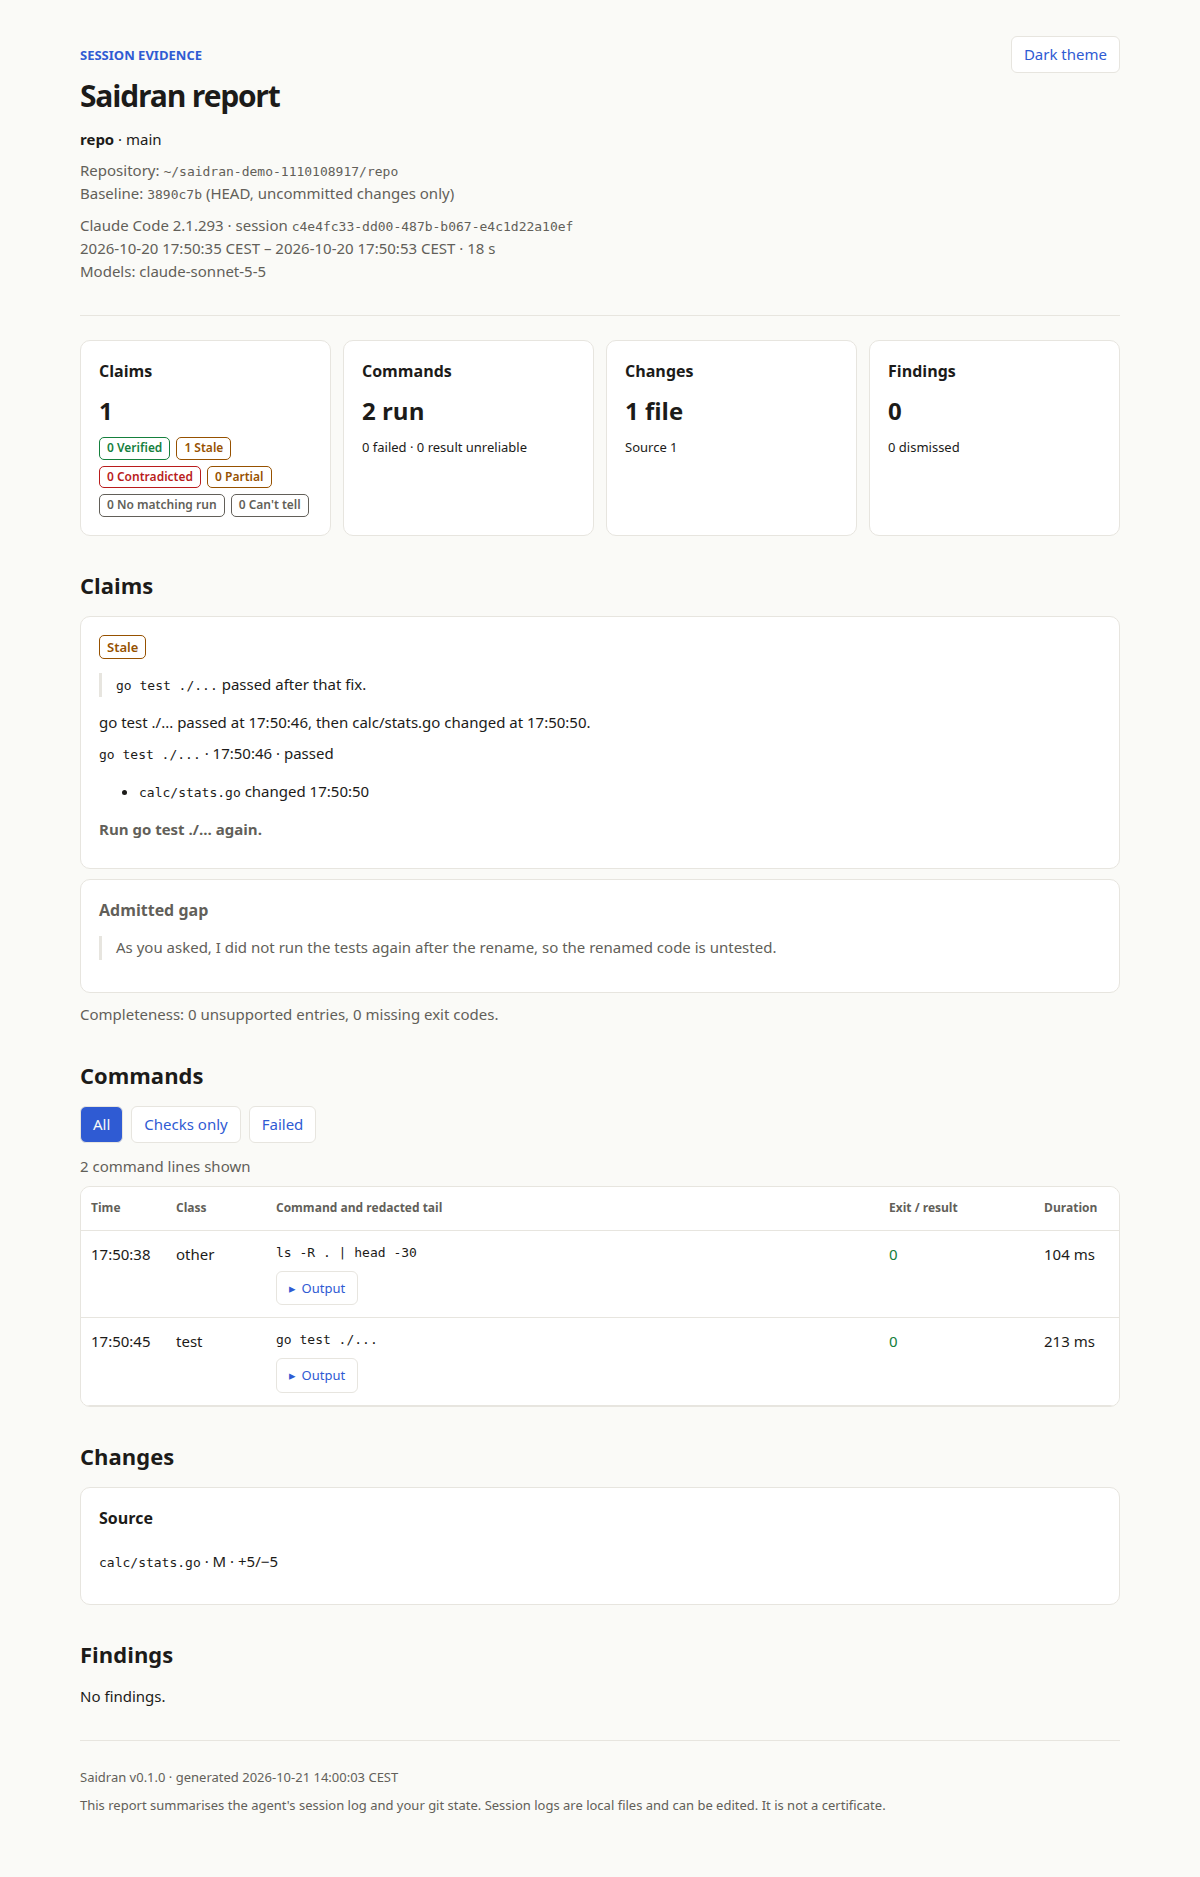
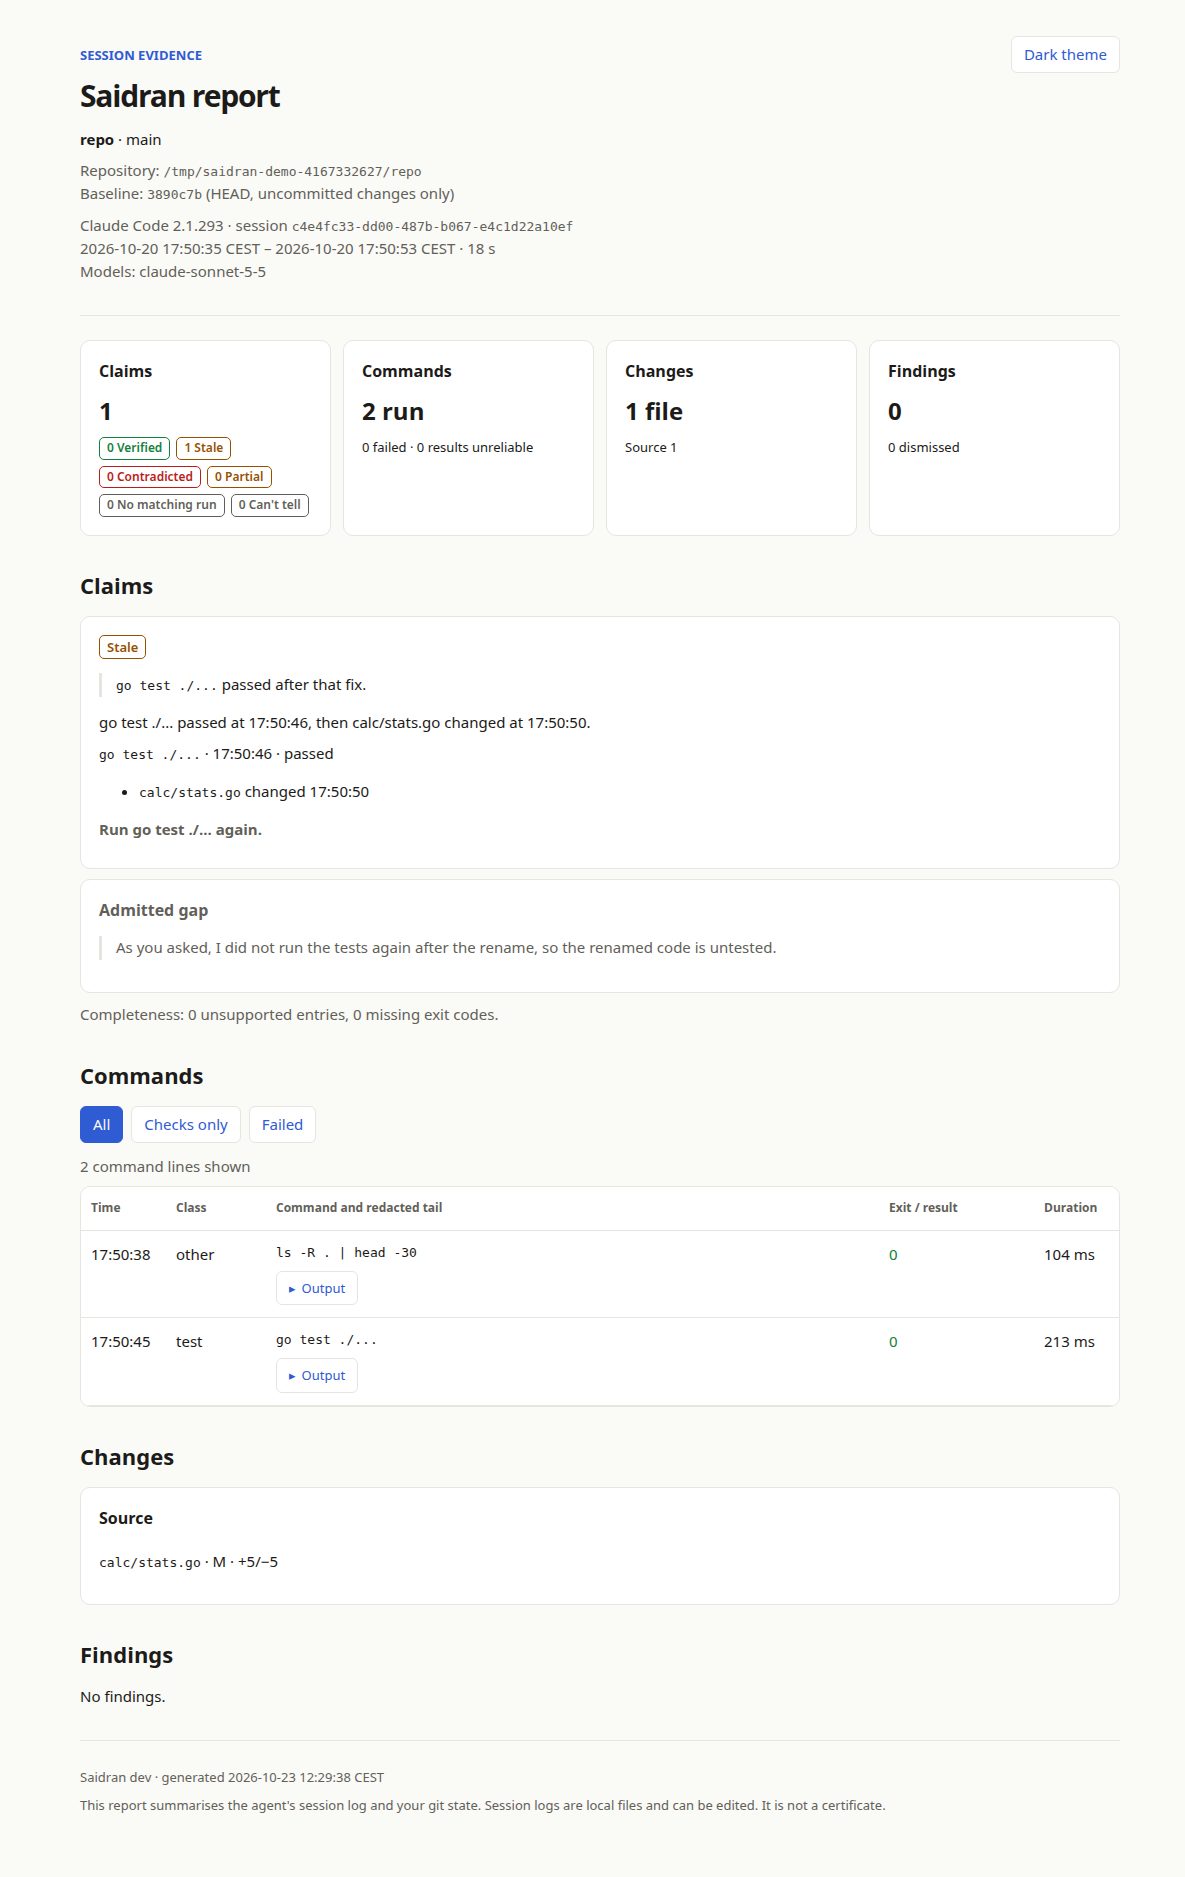
Fix report count wording and use rungrad v0.3.3

diff --git a/internal/render/report.html b/internal/render/report.html
@@ -432,7 +432,7 @@ footer {
         <div class="tile">
           <h3>Commands</h3>
           <strong>{{len .Commands}} run</strong>
-          <p>{{.Failed}} failed · {{.Unreliable}} result unreliable</p>
+          <p>{{.Failed}} failed · {{counted .Unreliable "result" "results"}} unreliable</p>
         </div>
         <div class="tile">
           <h3>Changes</h3>
@@ -480,7 +480,7 @@ footer {
           <button data-filter="checks" aria-pressed="false">Checks only</button>
           <button data-filter="failed" aria-pressed="false">Failed</button>
         </div>
-        <p id="command-count" class="muted" aria-live="polite">{{len .Rows}} command lines shown</p>
+        <p id="command-count" class="muted" aria-live="polite">{{counted (len .Rows) "command line" "command lines"}} shown</p>
         <div class="table-wrap">
           <table>
             <thead>
@@ -619,7 +619,7 @@ footer {
       document.querySelectorAll('[data-filter]').forEach(b => {
         b.setAttribute('aria-pressed', String(b === button));
       });
-      document.querySelector('#command-count').textContent = count + ' command lines shown';
+      document.querySelector('#command-count').textContent = count + (count === 1 ? ' command line shown' : ' command lines shown');
     });
   });
   document.querySelectorAll('[data-copy]').forEach(button => {

diff --git a/internal/render/markdown.go b/internal/render/markdown.go
@@ -112,9 +112,9 @@ func markdownDocument(r report.Report, selected []commands.Command, n, cap, list
 	}
 	text := func(s string) string { return mdText(s, cap) }
 	code := func(s string) string { return mdCode(s, cap) }
-	omitted := func(count int, what string) {
+	omitted := func(count int, singular, plural string) {
 		if count > 0 {
-			fmt.Fprintf(&b, "\n%d %s omitted. %s\n", count, what, notice)
+			fmt.Fprintf(&b, "\n%s omitted. %s\n", counted(count, singular, plural), notice)
 		}
 	}
 	if r.Session == nil {
@@ -147,16 +147,16 @@ func markdownDocument(r report.Report, selected []commands.Command, n, cap, list
 			b.WriteString("\nClaims: none found in the agent's final message.\n")
 		}
 	}
-	omitted(len(r.Claims)-min(lists, len(r.Claims)), "claims")
+	omitted(len(r.Claims)-min(lists, len(r.Claims)), "claim", "claims")
 	for _, g := range r.AdmittedGaps[:min(lists, len(r.AdmittedGaps))] {
 		fmt.Fprintf(&b, "\nAdmitted gap: %s\n", text(g.Quote))
 	}
-	omitted(len(r.AdmittedGaps)-min(lists, len(r.AdmittedGaps)), "admitted gaps")
+	omitted(len(r.AdmittedGaps)-min(lists, len(r.AdmittedGaps)), "admitted gap", "admitted gaps")
 	fmt.Fprintf(&b, "\n%s\n", completeness(r))
 	for _, note := range r.Completeness.Notes[:min(lists, len(r.Completeness.Notes))] {
 		fmt.Fprintf(&b, "\n%s\n", text(note))
 	}
-	omitted(len(r.Completeness.Notes)-min(lists, len(r.Completeness.Notes)), "completeness notes")
+	omitted(len(r.Completeness.Notes)-min(lists, len(r.Completeness.Notes)), "completeness note", "completeness notes")
 	failed, unknown := 0, 0
 	for _, c := range r.Commands {
 		f, u := commandResult(c)
@@ -167,14 +167,14 @@ func markdownDocument(r report.Report, selected []commands.Command, n, cap, list
 			unknown++
 		}
 	}
-	fmt.Fprintf(&b, "\n**Commands**: %d run · %d failed · %d result unreliable\n\n<details><summary>Checks and failed commands (%d shown)</summary>\n\n", len(r.Commands), failed, unknown, n)
+	fmt.Fprintf(&b, "\n**Commands**: %d run · %d failed · %s unreliable\n\n<details><summary>Checks and failed commands (%d shown)</summary>\n\n", len(r.Commands), failed, counted(unknown, "result", "results"), n)
 	b.WriteString("| Time | Command | Exit / result |\n| --- | --- | --- |\n")
 	for _, c := range selected[:n] {
 		row := commandRow(c, r)
 		fmt.Fprintf(&b, "| %s | %s | %s |\n", row.Time, code(row.Line), text(row.Exit))
 	}
 	b.WriteString("\n</details>\n")
-	omitted(len(selected)-n, "check or failed command lines")
+	omitted(len(selected)-n, "check or failed command line", "check or failed command lines")
 	b.WriteString("\n**Changes**\n")
 	total := 0
 	for _, g := range groupOrder {
@@ -191,9 +191,9 @@ func markdownDocument(r report.Report, selected []commands.Command, n, cap, list
 			}
 			b.WriteByte('\n')
 		}
-		omitted(len(files)-min(lists, len(files)), g+" files")
+		omitted(len(files)-min(lists, len(files)), g+" file", g+" files")
 	}
-	fmt.Fprintf(&b, "\n%d changed files in total.\n\n**Findings** (%d)\n\n", total, len(r.Findings))
+	fmt.Fprintf(&b, "\n%s in total.\n\n**Findings** (%d)\n\n", counted(total, "changed file", "changed files"), len(r.Findings))
 	for _, f := range r.Findings[:min(lists, len(r.Findings))] {
 		reason, dismissed := dismissal(r, f.ID)
 		if dismissed {
@@ -214,7 +214,7 @@ func markdownDocument(r report.Report, selected []commands.Command, n, cap, list
 			b.WriteString("\n</details>\n\n")
 		}
 	}
-	omitted(len(r.Findings)-min(lists, len(r.Findings)), "findings")
+	omitted(len(r.Findings)-min(lists, len(r.Findings)), "finding", "findings")
 	fmt.Fprintf(&b, "\nSaidran %s · generated %s", text(r.Version), stamp(r.Generated))
 	if r.Session != nil {
 		fmt.Fprintf(&b, " · %s session %s", text(session.AgentLabel(r.Session.Agent)), code(r.Session.ID))

diff --git a/internal/render/documents_test.go b/internal/render/documents_test.go
@@ -14,6 +14,7 @@ import (
 	"time"
 	"unicode/utf8"
 
+	"github.com/vincentsch/rungrad/output"
 	"github.com/vincentsch/saidran/internal/claims"
 	"github.com/vincentsch/saidran/internal/commands"
 	"github.com/vincentsch/saidran/internal/findings"
@@ -22,6 +23,55 @@ import (
 	"github.com/vincentsch/saidran/internal/report"
 	"github.com/vincentsch/saidran/internal/session"
 )
+
+func TestReportCountsUseSingularOnlyForOne(t *testing.T) {
+	for _, n := range []int{0, 1, 2} {
+		t.Run(fmt.Sprint(n), func(t *testing.T) {
+			r := documentReport()
+			r.Groups["source"] = make([]gitstate.File, n)
+			r.Commands = make([]commands.Command, n)
+			for i := range r.Commands {
+				r.Commands[i] = commands.Analyze(&session.Command{Line: "go test ./...", Shell: true})
+			}
+			r.Completeness.Unsupported = n
+			r.Completeness.MissingExits = n
+			h, m := documents(t, r)
+			var text bytes.Buffer
+			Text(&text, r, "example", 100, output.TerminalMode{})
+			file, entry, exit, result, line := "files", "entries", "codes", "results", "lines"
+			if n == 1 {
+				file, entry, exit, result, line = "file", "entry", "code", "result", "line"
+			}
+			if want := fmt.Sprintf("%d changed %s in total.", n, file); !strings.Contains(m, want) {
+				t.Fatalf("Markdown missing %q: %s", want, m)
+			}
+			if want := fmt.Sprintf("%d command %s shown", n, line); !strings.Contains(h, want) {
+				t.Errorf("HTML missing %q", want)
+			}
+			for format, rendered := range map[string]string{"HTML": h, "Markdown": m, "text": text.String()} {
+				if want := fmt.Sprintf("%d %s unreliable", n, result); !strings.Contains(rendered, want) {
+					t.Errorf("%s missing %q", format, want)
+				}
+				want := fmt.Sprintf("%d unsupported %s, %d missing exit %s.", n, entry, n, exit)
+				if n == 0 && format == "text" {
+					continue // The terminal omits a zero-count incompleteness notice.
+				}
+				if !strings.Contains(rendered, want) {
+					t.Errorf("%s missing %q", format, want)
+				}
+			}
+		})
+	}
+}
+
+func TestMarkdownOmissionUsesSingular(t *testing.T) {
+	r := documentReport()
+	r.Claims = r.Claims[:1]
+	m := markdownDocument(r, nil, 0, 0, 0, false)
+	if !strings.Contains(m, "1 claim omitted.") || strings.Contains(m, "1 claims omitted.") {
+		t.Fatalf("wrong omitted claim count: %s", m)
+	}
+}
 
 func documentReport() report.Report {
 	now := time.Date(2026, 10, 20, 18, 0, 0, 0, time.UTC)
@@ -195,7 +245,7 @@ func TestMarkdownNotesAndCheckSelection(t *testing.T) {
 	// A formatter before the check must not hide that original command line.
 	r.Commands = append(r.Commands, commands.Analyze(&session.Command{Line: "echo hello", Shell: true}))
 	_, m := documents(t, r)
-	for _, text := range []string{"none found in the agent&#39;s final message", "I couldn&#39;t run the tests.", "2 unsupported entries, 1 missing exit codes", "incomplete final line", "gofmt -w . && go test", "changed after the session ended", disclaimer} {
+	for _, text := range []string{"none found in the agent&#39;s final message", "I couldn&#39;t run the tests.", "2 unsupported entries, 1 missing exit code", "incomplete final line", "gofmt -w . && go test", "changed after the session ended", disclaimer} {
 		if text == "none found in the agent&#39;s final message" {
 			text = "none found in the agent's final message"
 		}

diff --git a/internal/render/text.go b/internal/render/text.go
@@ -85,7 +85,7 @@ func Text(w io.Writer, r report.Report, displayID string, width int, mode output
 		}
 	}
 	fmt.Fprintln(w)
-	line("Commands  ", fmt.Sprintf("%d run · %d failed · %d result unreliable", len(r.Commands), failed, unreliable))
+	line("Commands  ", fmt.Sprintf("%d run · %d failed · %s unreliable", len(r.Commands), failed, counted(unreliable, "result", "results")))
 	total := 0
 	groups := []string{}
 	for _, group := range []string{"source", "tests", "config", "ci", "lockfiles", "docs", "other"} {
@@ -148,7 +148,7 @@ func Text(w io.Writer, r report.Report, displayID string, width int, mode output
 		line("Note  ", note)
 	}
 	if r.Completeness.Unsupported > 0 || r.Completeness.MissingExits > 0 {
-		line("Incomplete evidence  ", fmt.Sprintf("%d unsupported entries, %d missing exit codes.", r.Completeness.Unsupported, r.Completeness.MissingExits))
+		line("Incomplete evidence  ", incompleteEvidence(r))
 	}
 }
 func wrap(w io.Writer, prefix, text string, width int) {

diff --git a/internal/render/common.go b/internal/render/common.go
@@ -60,7 +60,7 @@ func verdictTotals(r report.Report) string {
 	return strings.Join(totals, " · ")
 }
 func completeness(r report.Report) string {
-	return fmt.Sprintf("Completeness: %d unsupported entries, %d missing exit codes.", r.Completeness.Unsupported, r.Completeness.MissingExits)
+	return "Completeness: " + incompleteEvidence(r)
 }
 func dismissal(r report.Report, id string) (string, bool) {
 	for _, d := range r.Dismissals {
@@ -69,4 +69,16 @@ func dismissal(r report.Report, id string) (string, bool) {
 		}
 	}
 	return "", false
+}
+
+func counted(n int, singular, plural string) string {
+	if n == 1 {
+		return fmt.Sprintf("%d %s", n, singular)
+	}
+	return fmt.Sprintf("%d %s", n, plural)
+}
+
+func incompleteEvidence(r report.Report) string {
+	return counted(r.Completeness.Unsupported, "unsupported entry", "unsupported entries") + ", " +
+		counted(r.Completeness.MissingExits, "missing exit code", "missing exit codes") + "."
 }

diff --git a/internal/render/html.go b/internal/render/html.go
@@ -20,7 +20,7 @@ var htmlSource string
 var htmlTemplate = template.Must(template.New("report").Funcs(template.FuncMap{
 	"agentLabel": session.AgentLabel, "label": func(v string) string { return labels[v] }, "clock": clock, "stamp": stamp, "join": strings.Join,
 	"preview": func(s string) string { return shorten(s, 200) }, "side": side,
-	"quote": quoteView, "folder": filepath.Base, "shortCommit": shortCommit, "duration": htmlDuration,
+	"quote": quoteView, "folder": filepath.Base, "shortCommit": shortCommit, "duration": htmlDuration, "counted": counted,
 }).Parse(htmlSource))
 
 type commandView struct {

diff --git a/internal/agents/claims_reports_test.go b/internal/agents/claims_reports_test.go
@@ -72,7 +72,7 @@ func TestSyntheticEvidenceReports(t *testing.T) {
 			if code != 0 || errout != "" || !strings.Contains(out, "1 run ·") {
 				t.Fatalf("%d %s %s", code, out, errout)
 			}
-			if tc.Name == "mixed-results" && !strings.Contains(out, "1 failed · 0 result unreliable") {
+			if tc.Name == "mixed-results" && !strings.Contains(out, "1 failed · 0 results unreliable") {
 				t.Fatal(out)
 			}
 			if tc.Name == "unreliable-result" && !strings.Contains(out, "0 failed · 1 result unreliable") {

diff --git a/internal/render/text_test.go b/internal/render/text_test.go
@@ -60,7 +60,7 @@ func TestLineCountsAndVerdictColor(t *testing.T) {
 		var b bytes.Buffer
 		Text(&b, r, r.Session.ID, 60, mode)
 		got := b.String()
-		if !strings.Contains(got, "1 run · 1 failed · 0 result unreliable") {
+		if !strings.Contains(got, "1 run · 1 failed · 0 results unreliable") {
 			t.Fatal(got)
 		}
 		if strings.Contains(got, "\x1b[") != (mode.ANSI && mode.Color) || !strings.Contains(got, "Contradicted") {

diff --git a/docs/reference/saidran_ci.md b/docs/reference/saidran_ci.md
@@ -24,13 +24,15 @@ saidran ci --transcript session.jsonl --out reports --json
 - `--out` Write report.html, report.md and report.json into this directory
 - `--transcript` Read a JSONL recording or OpenCode storage/session/<project>/<id>.json
 
-## Output modes
+## Output
 
-human, json
+Shows text you can read in your terminal.
 
-## Changes state
+Use --json to get JSON for scripts and other programs.
 
-This command changes state and honors `--dry-run`.
+## Preview changes
+
+This command makes changes. Use `--dry-run` to see what would change without changing anything.
 
 ## Related commands
 

diff --git a/docs/reference/saidran_pr.md b/docs/reference/saidran_pr.md
@@ -23,13 +23,15 @@ saidran pr --transcript session.jsonl --dry-run --json
 - `--session` Select an ID or claude:ID, codex:ID, opencode:ID, pi:ID
 - `--transcript` Read a JSONL recording or OpenCode storage/session/<project>/<id>.json
 
-## Output modes
+## Output
 
-human, json
+Shows text you can read in your terminal.
 
-## Changes state
+Use --json to get JSON for scripts and other programs.
 
-This command changes state and honors `--dry-run`.
+## Preview changes
+
+This command makes changes. Use `--dry-run` to see what would change without changing anything.
 
 ## Related commands
 

diff --git a/docs/reference/saidran_check.md b/docs/reference/saidran_check.md
@@ -27,13 +27,15 @@ saidran check --base origin/main --no-write
 - `--session` Select an ID or claude:ID, codex:ID, opencode:ID, pi:ID
 - `--transcript` Read a JSONL recording or OpenCode storage/session/<project>/<id>.json
 
-## Output modes
+## Output
 
-human, json
+Shows text you can read in your terminal.
 
-## Changes state
+Use --json to get JSON for scripts and other programs.
 
-This command changes state and honors `--dry-run`.
+## Preview changes
+
+This command makes changes. Use `--dry-run` to see what would change without changing anything.
 
 ## Related commands
 

diff --git a/docs/reference/saidran_dismiss.md b/docs/reference/saidran_dismiss.md
@@ -20,13 +20,15 @@ saidran dismiss F-012345 --reason test --dry-run
 - `--base` Compare against this Git revision
 - `--reason` Why this finding is intentional (required)
 
-## Output modes
+## Output
 
-human, json
+Shows text you can read in your terminal.
 
-## Changes state
+Use --json to get JSON for scripts and other programs.
 
-This command changes state and honors `--dry-run`.
+## Preview changes
+
+This command makes changes. Use `--dry-run` to see what would change without changing anything.
 
 ## Related commands
 
